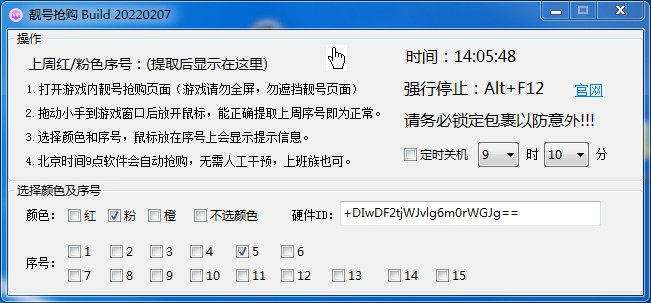
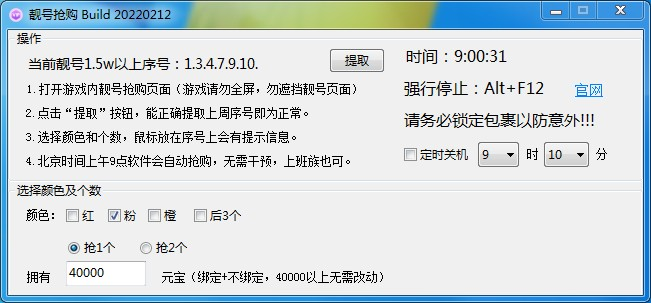
Site updated: 2022-02-07 09:06:37

diff --git a/2022/01/30/靓号抢购软件/index.html b/2022/01/30/靓号抢购软件/index.html
@@ -185,7 +185,7 @@
     
     <span class="post-meta mr-2">
       <i class="iconfont icon-chart"></i>
-      761 字
+      562 字
     </span>
   
 
@@ -195,7 +195,7 @@
       <i class="iconfont icon-clock-fill"></i>
       
       
-      8
+      5
        分钟
     </span>
   
@@ -244,23 +244,17 @@
 <p>1.软件需要联网对时，保持和服务器时间同步，请勿阻止联网；</p>
 <p>2.北京NPC梁浩-本周靓号-本周售卖靓号，打开抢购页面：</p>
 <p><img src="/2022/01/30/%E9%9D%93%E5%8F%B7%E6%8A%A2%E8%B4%AD%E8%BD%AF%E4%BB%B6/Snipaste_2022-01-30_19-58-58.jpg" srcset="/img/loading.gif" lazyload alt="靓号抢购界面"></p>
-<p>3.拖动软件界面的小手到游戏窗口，松开鼠标，会提取到页面显示靓号的红色、粉色序号。若不能提取或提取不完整，请联系博主。游戏字体不是宋体会影响提取，请游戏“显示设置”改为”“清晰宋体”。</p>
+<p>3.打开软件，点击“提取”按钮，会提取到页面显示靓号的红色、粉色序号。若不能提取或提取不完整，请联系博主。游戏字体不是宋体会影响提取，请游戏“显示设置”改为”“清晰宋体”。</p>
 <p>4.游戏窗口置于当前激活状态，靓号抢购页面要向上图一样无遮挡，等待开始即可，北京时间9点时软件会自动抢购，无需人工干预；</p>
 </blockquote>
 <h4 id="注意事项："><a href="#注意事项：" class="headerlink" title="注意事项："></a>注意事项：</h4><blockquote>
 <p>1上班族，可以在出门前做好上述4步，就可以做到自己抢靓号。</p>
-<p>2.游戏靓号刷新是乱序的，软件会提取出红色粉色后重新编号，红色和3w以上元宝粉色会排在前面，如果元宝不够3w请不要选1号。如果不选颜色，就不会提取，也不会重新排序。</p>
-<p>3.如果选编号13/14/15，则无法选择颜色，并且抢购的时候也会和编号10/11/12同时抢，所以选最后3个编号抢到什么颜色取决于开发者放的什么号。</p>
-<p>4.<strong>包裹请务必加密码并锁定</strong>，以防出现意外损失；</p>
-<p>5.如果有挂机道具，建议夜里就把道具挂满，以防抢购时出现如下的挂机送道具提示：</p>
+<p>2.如果选后3个，则无法选择颜色，并且抢购的时候也会和编号10/11/12同时抢，所以选最后3个抢到什么颜色取决于开发者放的什么号。</p>
+<p>3.<strong>包裹请务必加密码并锁定</strong>，以防出现意外损失；</p>
+<p>4.如果有挂机道具，建议夜里就把道具挂满，以防抢购时出现如下的挂机送道具提示：</p>
 <p><img src="/2022/01/30/%E9%9D%93%E5%8F%B7%E6%8A%A2%E8%B4%AD%E8%BD%AF%E4%BB%B6/Snipaste_2021-11-01_10-05-10-16357564886691.jpg" srcset="/img/loading.gif" lazyload alt="在线每半小时赠送道具的提示，请提前挂满！"></p>
 <p>6.组建一个队伍，并在队伍的申请列表勾选“禁止组对申请”，可防止意外出现的组队确认，也可防止挂机抢购的时候敌对偷偷组你把你拉到野外蹂躏。</p>
 <p><img src="/2022/01/30/%E9%9D%93%E5%8F%B7%E6%8A%A2%E8%B4%AD%E8%BD%AF%E4%BB%B6/Snipaste_2022-02-04_13-14-49.jpg" srcset="/img/loading.gif" lazyload alt="勾选禁止组队申请"></p>
-</blockquote>
-<h4 id="举例说明："><a href="#举例说明：" class="headerlink" title="举例说明："></a>举例说明：</h4><blockquote>
-<p>如果刷出1个红5个粉，并且你选红和粉，提取后1-6号排序为红在1号、贵的粉在2、3号、便宜的粉4-6号，7号以后为空。</p>
-<p>如果你选粉不选红，则1-5号排序为贵的粉在1号，便宜的粉次之，6号以后为空。</p>
-<p>通常红色粉色数量在5-7个，偶尔4个以下，偶尔8个以上。红色并非每周都有。</p>
 </blockquote>
 <h4 id="获取授权："><a href="#获取授权：" class="headerlink" title="获取授权："></a>获取授权：</h4><blockquote>
 <p>添加微信：max999，或扫下图二维码。</p>
